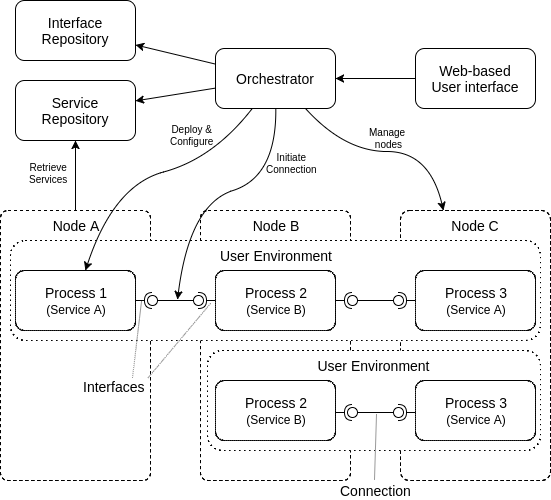
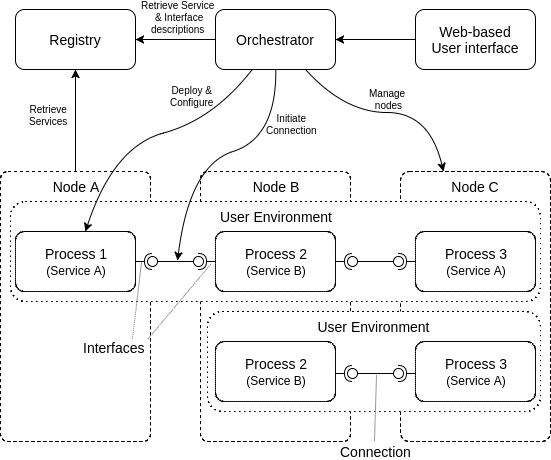
Added orchestrator documentation

diff --git a/architecture/orchestrator.md b/architecture/orchestrator.md
@@ -1,2 +1,30 @@
 # Orchestrator
 
+The orchestrator is the most important component in the architecture and is responsible for several things: the deployment of services, the initiation of connections between services, lifecycle management of processes, and user management.
+
+The orchestrator is able to deploy services on a cluster of hosts. Either the user specifies where a service has to be deployed or the orchestrator picks one itself. When deploying a service, the end-user is able to specify which version of the service must be deployed. Also, the user is able to specify environment key-value pairs for the container, this key-value map is put into the actual environment variables of the container. Containers do not share these environment variables, so settings (e.g. a MAC address or an identifier) can be different for containers of one service. This way users can deploy a generic service and customize its behavior by specifying environment variables.
+
+The orchestrator is the only component that can initiate connections between services. This way the orchestrator is able to verify whether or not services should communicate with each other, by determining the compatibility of interfaces implemented by services. For example, when the interfaces don't match or when the cardinality will be violated no connection is created. Via the web-based user interface, end-users are able to specify connections by selecting the correct processes and interfaces to be connected. 
+
+\(TODO: life-cylce management\)
+
+\(TODO: Pending changes\)
+
+\(TODO: User environments, private vs public nodes\)
+
+## Overview
+
+![&quot;Orchestrator overview&quot;](/assets/orchestrator.png)
+
+| Component 			| Description |
+| --- 					| --- |
+| REST API 				| Provides an interface to communicate with the orchestrator, via the web-based user interface. \(TODO: add reference to swagger documentation\) |
+| Process Manager 		| Manages the processes in the environment. Responsible for listing, creating, updating, moving, and deleting processes. |
+| Connection Manager 	| Manages connections between interfaces of processes. Responsible for listing, creating, and terminating connections. |
+| User Manager 			| Provides authentication of users of the orchestrator environment.  |
+| Node Manager 			| Manages nodes available to the orchestrator. Nodes are put into one of three categories: private, public, or unidentified. |
+| Service Manager 		| Lists services and their interfaces published to the registry. |
+| Process Connector 	| Connects to deployed processes to communicate the configuration and connections of the processes. |
+| Database Connector 	| Connects to the MongoDB object store for writing and reading objects.  |
+| Docker Connector 		| Connects to a Docker swarm manager for deploying new processes and managing shared networks between processes. |
+| Registry Connector 	| Connects to the Docker Registry for the retrieval of services and their interfaces. |
